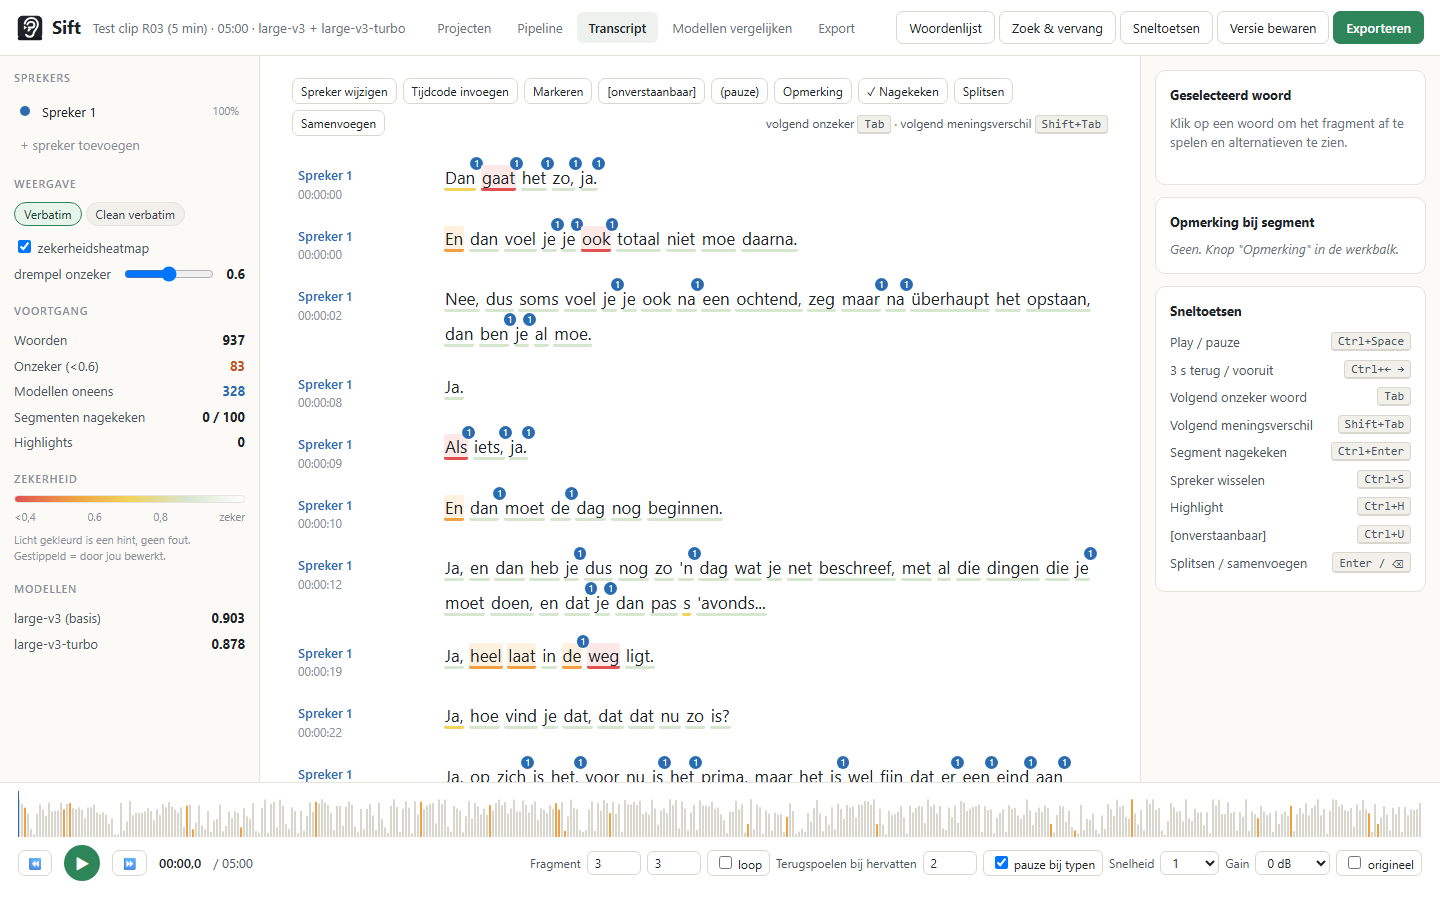
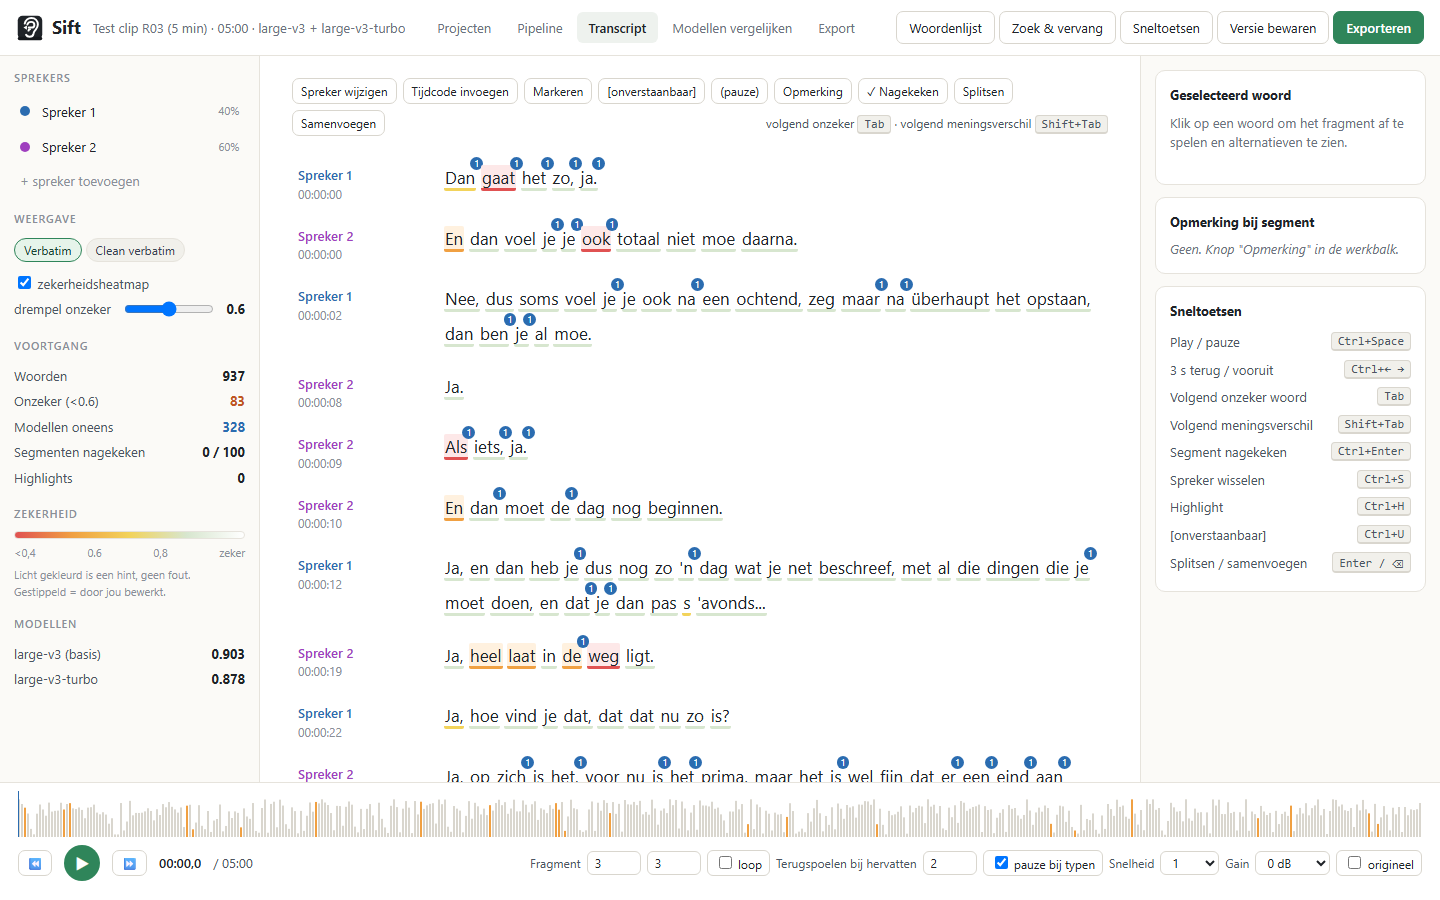
Sprekerscheiding zonder token: SpeechBrain-embeddings + ward-clustering
Pyannote en het Hugging Face-token zijn verwijderd; alles is nu open source zonder registratie.
Sprekers worden ook toegewezen aan een al bewerkt transcript zonder tekstverlies.
Qwen3-ASR toegevoegd als optioneel extra model, apostrof-tokens samengevoegd,
anonimisering op woordgrenzen, alinea's begrensd op 40 s.

diff --git a/sift/static/app.js b/sift/static/app.js
@@ -46,7 +46,7 @@ async function loadHome() {
   S.info = S.info || await api('/info');
   S.projects = await api('/projects');
   const hw = S.info.hardware;
-  $('#hw').innerHTML = `Hardware: ${hw.gpu_name ? `GPU ${esc(hw.gpu_name)}${hw.vram_gb ? ' (' + hw.vram_gb + ' GB)' : ''}` : 'geen CUDA-GPU, CPU-modus'} · ${hw.cpu_threads} threads · ffmpeg ${hw.ffmpeg ? 'ok' : '<b style="color:var(--warn)">niet gevonden</b>'} · sprekerscheiding ${S.info.diarize_available ? 'beschikbaar' : 'uit (geen HF-token)'}`;
+  $('#hw').innerHTML = `Hardware: ${hw.gpu_name ? `GPU ${esc(hw.gpu_name)}${hw.vram_gb ? ' (' + hw.vram_gb + ' GB)' : ''}` : 'geen CUDA-GPU, CPU-modus'} · ${hw.cpu_threads} threads · ffmpeg ${hw.ffmpeg ? 'ok' : '<b style="color:var(--warn)">niet gevonden</b>'} · sprekerscheiding ${S.info.diarize_available ? 'beschikbaar' : 'uit (speechbrain ontbreekt)'}`;
   $('#plist').innerHTML = S.projects.length ? S.projects.map(p => `<div class="item" data-id="${esc(p.id)}"><div><b>${esc(p.name)}</b><div style="font-size:12px;color:var(--muted)">${p.models.join(', ') || 'nog niet verwerkt'}</div></div><div class="meta"><span class="status ${esc(p.status)}">${esc(p.status)}</span><div>${p.duration ? fmtT(p.duration) : ''}</div></div></div>`).join('') : '<div class="sub">Nog geen projecten.</div>';
   $$('#plist .item').forEach(el => el.onclick = () => openProject(el.dataset.id));
   const box = $('#newModels');
@@ -114,7 +114,7 @@ function renderPipeline() {
       <div class="opt"><label style="flex:1">Stopwoord-hint (hotwords)<input type="text" id="pHot" class="k" style="width:100%;margin-top:3px" value="${esc(st.hotwords)}"></label></div>
       ${sd.running ? `<div class="prog"><i style="width:${Math.round((sd.progress || 0) * 100)}%"></i></div><p style="margin-top:6px"><b>${esc(sd.step)}</b> · ${Math.round((sd.progress || 0) * 100)}% · ${esc(sd.detail || '')}</p>` : ''}
       ${m.status === 'fout' ? `<p style="color:var(--warn);margin-top:6px">Fout: ${esc(m.error)}</p>` : ''}</div></div>
-    <div class="step"><div class="n ${m.speakers && Object.keys(m.speakers).length > 1 ? 'ok' : ''}">5</div><div style="flex:1"><h4>5. Sprekers scheiden</h4><p>pyannote (lokaal). ${S.info.diarize_available ? 'Beschikbaar.' : 'Niet actief: zet een Hugging Face-token in hf_token.txt en installeer pyannote.audio. Zonder diarisatie wijs je sprekers in de editor toe.'}</p>
+    <div class="step"><div class="n ${m.speakers && Object.keys(m.speakers).length > 1 ? 'ok' : ''}">5</div><div style="flex:1"><h4>5. Sprekers scheiden</h4><p>${S.info.diarize_available ? 'Spreker-embeddings per segment, lokaal geclusterd (SpeechBrain, open source, geen registratie). Geef het aantal sprekers op voor het beste resultaat.' : 'Niet actief: installeer speechbrain en torch (pip install -r requirements.txt). Zonder diarisatie wijs je sprekers in de editor toe.'}${m.diarization ? ` Laatste run: ${m.diarization.speakers} sprekers gevonden.` : ''}</p>
       <div class="opt"><label class="cb"><input type="checkbox" id="pDiar" ${st.diarize ? 'checked' : ''}> sprekerscheiding</label><label class="cb">aantal sprekers <input type="number" id="pNum" class="k" value="${st.num_speakers || ''}" min="1" max="10" style="width:50px"></label></div></div></div>
     <div style="display:flex;gap:8px;margin-top:6px">${sd.running ? `<button class="btn" id="pCancel">Annuleren</button>` : `<button class="btn primary" id="pRun">${Object.keys(m.runs || {}).length ? 'Opnieuw verwerken' : 'Starten'}</button>`}<button class="btn" id="pRecomb" ${Object.keys(m.runs || {}).length < 1 ? 'disabled' : ''}>Alleen opnieuw combineren</button>${m.status === 'klaar' ? `<button class="btn" id="pOpen">Open in editor</button>` : ''}</div>
   </div>

diff --git a/sift/diarize.py b/sift/diarize.py
@@ -1,37 +1,117 @@
-"""Sprekerscheiding met pyannote (optioneel; vereist Hugging Face-token en geaccepteerde modelvoorwaarden).
+"""Sprekerscheiding, volledig open source en zonder registratie.
 
-Zonder token of pakket wordt None teruggegeven en krijgt alles 'Spreker 1'. Sprekertoewijzing per segment volgt de
-noScribe-regel: de diarisatiebeurt met de grootste overlapfractie wint; boven 0,8 heeft een kortere beurt voorrang.
+Per Whisper-segment wordt een spreker-embedding berekend (SpeechBrain ECAPA-TDNN, Apache 2.0, getraind op VoxCeleb) en
+die embeddings worden agglomeratief geclusterd (cosinusafstand). Met een opgegeven aantal sprekers wordt precies dat
+aantal clusters gemaakt; anders bepaalt een afstandsdrempel het aantal. Een kort los segment tussen twee gelijke
+sprekers ("ja", "hmm") krijgt de omliggende spreker.
+
+Sprekertoewijzing per segment volgt de noScribe-regel: de beurt met de grootste overlapfractie wint; boven 0,8 heeft
+een kortere beurt voorrang.
 """
 from __future__ import annotations
 
 from pathlib import Path
 
-from .config import hf_token
+MODEL = "speechbrain/spkrec-ecapa-voxceleb"
 
 
 def available() -> bool:
     try:
-        import pyannote.audio  # noqa: F401
-        return hf_token() is not None
+        import speechbrain  # noqa: F401
+        import torch  # noqa: F401
+        return True
     except Exception:
         return False
 
 
-def run(wav: Path, num_speakers: int | None, device: str, log=print) -> list[dict] | None:
+def method() -> str | None:
+    return "embeddings" if available() else None
+
+
+def run(wav: Path, segments: list[dict], num_speakers: int | None, device: str, log=print) -> list[dict] | None:
+    """segments: Whisper-segmenten (start, end). Geeft per segment een beurt met sprekerlabel, of None."""
     if not available():
         return None
+    import numpy as np
+    import soundfile as sf
     import torch
-    from pyannote.audio import Pipeline
+    from scipy.cluster.hierarchy import fcluster, linkage
+    from speechbrain.inference.speaker import EncoderClassifier
+    from speechbrain.utils.fetching import LocalStrategy
 
-    pipe = Pipeline.from_pretrained("pyannote/speaker-diarization-3.1", use_auth_token=hf_token())
-    if device == "cuda" and torch.cuda.is_available():
-        pipe.to(torch.device("cuda"))
-    kw = {"num_speakers": num_speakers} if num_speakers else {}
-    diar = pipe(str(wav), **kw)
-    turns = [{"start": float(t.start), "end": float(t.end), "speaker": s} for t, _, s in diar.itertracks(yield_label=True)]
-    turns.sort(key=lambda t: t["start"])
+    data, sr = sf.read(str(wav), dtype="float32")
+    if data.ndim > 1:
+        data = data.mean(axis=1)
+    dev = "cuda" if device == "cuda" and torch.cuda.is_available() else "cpu"
+    # COPY in plaats van symlinks: symlinks vereisen op Windows ontwikkelaarsmodus of beheerdersrechten
+    enc = EncoderClassifier.from_hparams(source=MODEL, run_opts={"device": dev}, local_strategy=LocalStrategy.COPY,
+                                         savedir=str(Path.home() / ".cache" / "sift" / "ecapa"))
+    embs, idx = [], []
+    min_len = 1.0
+    for i, s in enumerate(segments):
+        a, b = float(s["start"]), float(s["end"])
+        if b - a < min_len:  # korte segmenten: venster verbreden rond het midden
+            mid = (a + b) / 2
+            a, b = max(0.0, mid - min_len / 2), min(len(data) / sr, mid + min_len / 2)
+        chunk = data[int(a * sr):int(b * sr)]
+        if len(chunk) < sr // 4:
+            continue
+        with torch.no_grad():
+            e = enc.encode_batch(torch.from_numpy(chunk).unsqueeze(0).to(dev)).squeeze().cpu().numpy()
+        embs.append(e / (np.linalg.norm(e) + 1e-9))
+        idx.append(i)
+        if i % 25 == 0:
+            log(f"spreker-embeddings {i}/{len(segments)}")
+    if len(embs) < 2:
+        return [{"start": s["start"], "end": s["end"], "speaker": "SPEAKER_00"} for s in segments]
+    X = np.stack(embs)
+    # Ward op eenheidsvectoren geeft gebalanceerde clusters; average-linkage op cosinus isoleerde alleen uitschieters.
+    Z = linkage(X, method="ward")
+    if num_speakers and num_speakers >= 1:
+        labels = fcluster(Z, t=min(num_speakers, len(embs)), criterion="maxclust")
+    else:
+        labels = _best_k(X, Z, log)
+    order, seen = [], set()
+    for lab in labels:
+        if lab not in seen:
+            seen.add(lab)
+            order.append(lab)
+    remap = {lab: f"SPEAKER_{k:02d}" for k, lab in enumerate(order)}
+    lab_by_seg = {i: remap[labels[k]] for k, i in enumerate(idx)}
+    turns, last = [], "SPEAKER_00"
+    for i, s in enumerate(segments):
+        last = lab_by_seg.get(i, last)
+        turns.append({"start": float(s["start"]), "end": float(s["end"]), "speaker": last})
+    for i in range(1, len(turns) - 1):
+        if turns[i - 1]["speaker"] == turns[i + 1]["speaker"] != turns[i]["speaker"] and (turns[i]["end"] - turns[i]["start"]) < 1.0:
+            turns[i]["speaker"] = turns[i - 1]["speaker"]
     return turns
+
+
+def _best_k(X, Z, log=print):
+    """Aantal sprekers kiezen (2..5) met een eenvoudige silhouettescore."""
+    import numpy as np
+    from scipy.cluster.hierarchy import fcluster
+    from scipy.spatial.distance import cdist
+
+    D = cdist(X, X)
+    best, best_s, best_lab = 2, -1.0, None
+    for k in range(2, min(5, len(X) - 1) + 1):
+        lab = fcluster(Z, t=k, criterion="maxclust")
+        s = []
+        for i in range(len(X)):
+            same = lab == lab[i]
+            if same.sum() <= 1:
+                s.append(0.0)
+                continue
+            a = D[i][same].sum() / (same.sum() - 1)
+            b = min(D[i][lab == c].mean() for c in set(lab) if c != lab[i])
+            s.append((b - a) / max(a, b, 1e-9))
+        score = float(np.mean(s))
+        log(f"k={k}: silhouette {score:.3f}")
+        if score > best_s:
+            best, best_s, best_lab = k, score, lab
+    return best_lab
 
 
 def assign(segments: list[dict], turns: list[dict] | None, default: str = "S1") -> dict:
@@ -42,6 +122,7 @@ def assign(segments: list[dict], turns: list[dict] | None, default: str = "S1") 
         return {default: {"name": "Spreker 1"}}
     labels = sorted({t["speaker"] for t in turns})
     ids = {lab: f"S{i+1}" for i, lab in enumerate(labels)}
+    prev = ids[labels[0]]
     for s in segments:
         best, best_frac, best_len = None, 0.0, 0.0
         seg_len = max(s["end"] - s["start"], 1e-3)
@@ -53,5 +134,6 @@ def assign(segments: list[dict], turns: list[dict] | None, default: str = "S1") 
             tlen = t["end"] - t["start"]
             if frac > best_frac or (best_frac >= 0.8 and frac >= 0.8 and tlen < best_len):
                 best, best_frac, best_len = t, frac, tlen
-        s["speaker"] = ids[best["speaker"]] if best else (segments[segments.index(s) - 1]["speaker"] if segments.index(s) > 0 else ids[labels[0]])
+        s["speaker"] = ids[best["speaker"]] if best else prev
+        prev = s["speaker"]
     return {sid: {"name": f"Spreker {i+1}"} for i, sid in enumerate(ids.values())}

diff --git a/sift/pipeline.py b/sift/pipeline.py
@@ -134,13 +134,25 @@ class Job:
         if turns_path.exists():
             return
         if not diarize.available():
-            p.log("diarisatie overgeslagen: pyannote niet beschikbaar of geen HF-token (hf_token.txt)")
+            p.log("diarisatie overgeslagen: installeer speechbrain en torch (pip install -r requirements.txt)")
             return
-        self.set(step="Sprekers scheiden", progress=0.86, detail="pyannote")
+        runs = p.load_runs()
+        base = next((m for m in st["models"] if m in runs), None)
+        if not base:
+            return
+        self.set(step="Sprekers scheiden", progress=0.86, detail=diarize.method() or "")
         device, _ = resolve_device(st["device"])
-        turns = diarize.run(p.work / "audio_norm.wav", st.get("num_speakers") or None, device, p.log)
+        turns = diarize.run(p.work / "audio_norm.wav", runs[base]["segments"], st.get("num_speakers") or None, device,
+                            lambda t: self.set(detail=t))
+        if turns is None:
+            p.log("diarisatie mislukt")
+            return
         turns_path.write_text(json.dumps(turns), encoding="utf-8")
-        p.log(f"diarisatie: {len(turns or [])} beurten")
+        meta = p.meta()
+        used = "embeddings"
+        meta["diarization"] = {"method": used, "turns": len(turns), "speakers": len({t["speaker"] for t in turns})}
+        p.save_meta(meta)
+        p.log(f"diarisatie ({used}): {meta['diarization']['speakers']} sprekers, {len(turns)} beurten")
 
     # ---------- combineren ----------
     def _combine_step(self, p: Project, meta: dict, st: dict):
@@ -164,9 +176,19 @@ class Job:
         meta["summary"] = consensus.runs_summary(runs, st["uncertain_threshold"])
         p.save_meta(meta)
         if old and old.get("edited"):
-            # gebruiker heeft al bewerkt: nieuwe combinatie apart bewaren, transcript niet overschrijven
+            # gebruiker heeft al bewerkt: tekst bewaren, alleen sprekers opnieuw toewijzen als er diarisatie is
             (p.path / "transcript_recombined.json").write_text(json.dumps({**combined, "speakers": speakers}, ensure_ascii=False), encoding="utf-8")
-            p.log("transcript was al bewerkt; nieuwe combinatie opgeslagen als transcript_recombined.json")
+            if turns:
+                p.snapshot("voor_diarisatie")
+                old_speakers = diarize.assign(old["segments"], turns)
+                for sid, sp in (old.get("speakers") or {}).items():
+                    if sid in old_speakers and not sp["name"].startswith("Spreker "):
+                        old_speakers[sid] = sp
+                old["speakers"] = old_speakers
+                p.save_transcript(old)
+                p.log("sprekers toegewezen aan bewerkt transcript (tekst ongewijzigd); nieuwe combinatie apart in transcript_recombined.json")
+            else:
+                p.log("transcript was al bewerkt; nieuwe combinatie opgeslagen als transcript_recombined.json")
         else:
             p.save_transcript({**combined, "speakers": speakers, "edited": False}, keep_version=False)
 

diff --git a/benchmark/diar_test.py b/benchmark/diar_test.py
@@ -1,0 +1,53 @@
+"""Experiment: clusterstrategieën voor sprekerscheiding op een bestaand project."""
+import json, sys, pathlib
+import numpy as np, soundfile as sf, torch
+from scipy.cluster.hierarchy import fcluster, linkage
+from speechbrain.inference.speaker import EncoderClassifier
+from speechbrain.utils.fetching import LocalStrategy
+
+proj = pathlib.Path(sys.argv[1])
+segs = json.loads((proj / "runs" / "large-v3.json").read_text(encoding="utf-8"))["segments"]
+data, sr = sf.read(str(proj / "work" / "audio_norm.wav"), dtype="float32")
+enc = EncoderClassifier.from_hparams(source="speechbrain/spkrec-ecapa-voxceleb", run_opts={"device": "cuda"}, local_strategy=LocalStrategy.COPY,
+                                     savedir=str(pathlib.Path.home() / ".cache" / "sift" / "ecapa"))
+embs, idx, lens = [], [], []
+for i, s in enumerate(segs):
+    a, b = s["start"], s["end"]
+    L = b - a
+    if L < 1.5:
+        mid = (a + b) / 2; a, b = max(0, mid - 0.75), min(len(data) / sr, mid + 0.75)
+    chunk = data[int(a * sr):int(b * sr)]
+    with torch.no_grad():
+        e = enc.encode_batch(torch.from_numpy(chunk).unsqueeze(0).to("cuda")).squeeze().cpu().numpy()
+    embs.append(e / np.linalg.norm(e)); idx.append(i); lens.append(L)
+X = np.stack(embs); lens = np.array(lens)
+print("n", len(X))
+
+def show(name, labels):
+    u, c = np.unique(labels, return_counts=True)
+    print(f"\n== {name}: verdeling {dict(zip(u.tolist(), c.tolist()))}")
+    for k in range(0, 40):
+        print(f"  {labels[k]} [{segs[idx[k]]['start']:5.1f}s] {segs[idx[k]]['text'][:70]}")
+
+# 1) average cosine
+show("average-cosine", fcluster(linkage(X, "average", "cosine"), 2, "maxclust"))
+# 2) ward op genormaliseerde vectoren
+show("ward", fcluster(linkage(X, "ward"), 2, "maxclust"))
+# 3) alleen lange segmenten clusteren (>=1.5 s), rest naar dichtstbijzijnde centroid
+long = lens >= 1.5
+lab_long = fcluster(linkage(X[long], "ward"), 2, "maxclust")
+cent = np.stack([X[long][lab_long == k].mean(0) for k in (1, 2)])
+lab3 = np.array([int(np.argmax(cent @ x)) + 1 for x in X])
+show("ward-lang+centroid", lab3)
+# 4) spectral clustering (affiniteit = cosinus, genormaliseerd)
+from scipy.sparse.csgraph import laplacian
+A = X @ X.T; A = (A - A.min()) / (A.max() - A.min()); np.fill_diagonal(A, 0)
+Lp = laplacian(A, normed=True)
+w, v = np.linalg.eigh(Lp)
+emb2 = v[:, :2]
+lab4 = fcluster(linkage(emb2, "ward"), 2, "maxclust")
+show("spectral", lab4)
+# 5) kmeans op gecentreerde vectoren
+Xc = X - X.mean(0); Xc /= np.linalg.norm(Xc, axis=1, keepdims=True)
+show("ward-gecentreerd", fcluster(linkage(Xc, "ward"), 2, "maxclust"))
+show("average-gecentreerd", fcluster(linkage(Xc, "average", "cosine"), 2, "maxclust"))

diff --git a/sift/server.py b/sift/server.py
@@ -10,7 +10,7 @@ from fastapi import FastAPI, File, Form, HTTPException, UploadFile
 from fastapi.responses import FileResponse, HTMLResponse, JSONResponse, Response
 from fastapi.staticfiles import StaticFiles
 
-from . import __version__, export, pipeline
+from . import __version__, diarize, export, pipeline
 from .config import DEFAULT_SETTINGS, MODELS, PROJECTS_DIR, STATIC_DIR, hardware_info
 from .project import Project
 
@@ -33,7 +33,7 @@ def index():
 @app.get("/api/info")
 def info():
     return {"version": __version__, "hardware": hardware_info(), "models": MODELS, "defaults": DEFAULT_SETTINGS,
-            "projects_dir": str(PROJECTS_DIR), "diarize_available": __import__("sift.diarize", fromlist=["available"]).available()}
+            "projects_dir": str(PROJECTS_DIR), "diarize_available": diarize.available(), "diarize_method": diarize.method()}
 
 
 # ---------- projecten ----------

diff --git a/sift/config.py b/sift/config.py
@@ -81,13 +81,3 @@ def hardware_info() -> dict:
         except Exception:
             info["gpu_name"] = "CUDA-GPU"
     return info
-
-
-def hf_token() -> str | None:
-    tok = os.environ.get("HF_TOKEN") or os.environ.get("HUGGING_FACE_HUB_TOKEN")
-    if tok:
-        return tok
-    f = ROOT / "hf_token.txt"
-    if f.exists():
-        return f.read_text(encoding="utf-8").strip() or None
-    return None

diff --git a/README.md b/README.md
@@ -86,13 +86,20 @@ De kleur is de kans die Whisper zelf aan het woord toekent (`word.probability`).
 
 ## Sprekerscheiding
 
-Diarisatie gebruikt [pyannote.audio](https://github.com/pyannote/pyannote-audio). Dat vereist eenmalig een gratis Hugging Face-token en het accepteren van de modelvoorwaarden:
+Volledig open source, zonder registratie of token. Per segment wordt een spreker-embedding berekend met SpeechBrain ECAPA-TDNN (Apache 2.0) en die embeddings worden geclusterd. Geef in de pipeline het aantal sprekers op; voor een interview met twee personen werkt dit goed. Bewust niet gebruikt: pyannote, omdat dat een Hugging Face-account en het accepteren van voorwaarden vereist.
 
-```powershell
-.\.venv\Scripts\pip install pyannote.audio torch
-```
+In de editor corrigeer je sprekers met een klik op de naam, met `Ctrl+S`, of via "deze én alle volgende" in het sprekermenu. Als je sprekerscheiding pas later aanzet, blijft je bewerkte tekst staan: alleen de sprekerlabels worden toegevoegd.
 
-Zet het token in `hf_token.txt` in de projectmap. Zonder diarisatie krijgt alles "Spreker 1" en wijs je sprekers in de editor toe (klik op de sprekernaam, of `Ctrl+S`). Een tweegesprek is zo in een paar minuten gelabeld.
+## Licenties van de onderdelen
+
+| Onderdeel | Licentie |
+|---|---|
+| Sift | MIT |
+| Whisper-modellen (OpenAI) via faster-whisper / CTranslate2 | MIT |
+| SpeechBrain ECAPA spreker-embeddings | Apache 2.0 |
+| Qwen3-ASR (optioneel) | Apache 2.0 |
+| FastAPI, uvicorn, python-docx, soundfile, numpy, scipy | MIT / BSD |
+| ffmpeg (extern programma) | LGPL/GPL |
 
 ## Projectstructuur
 
